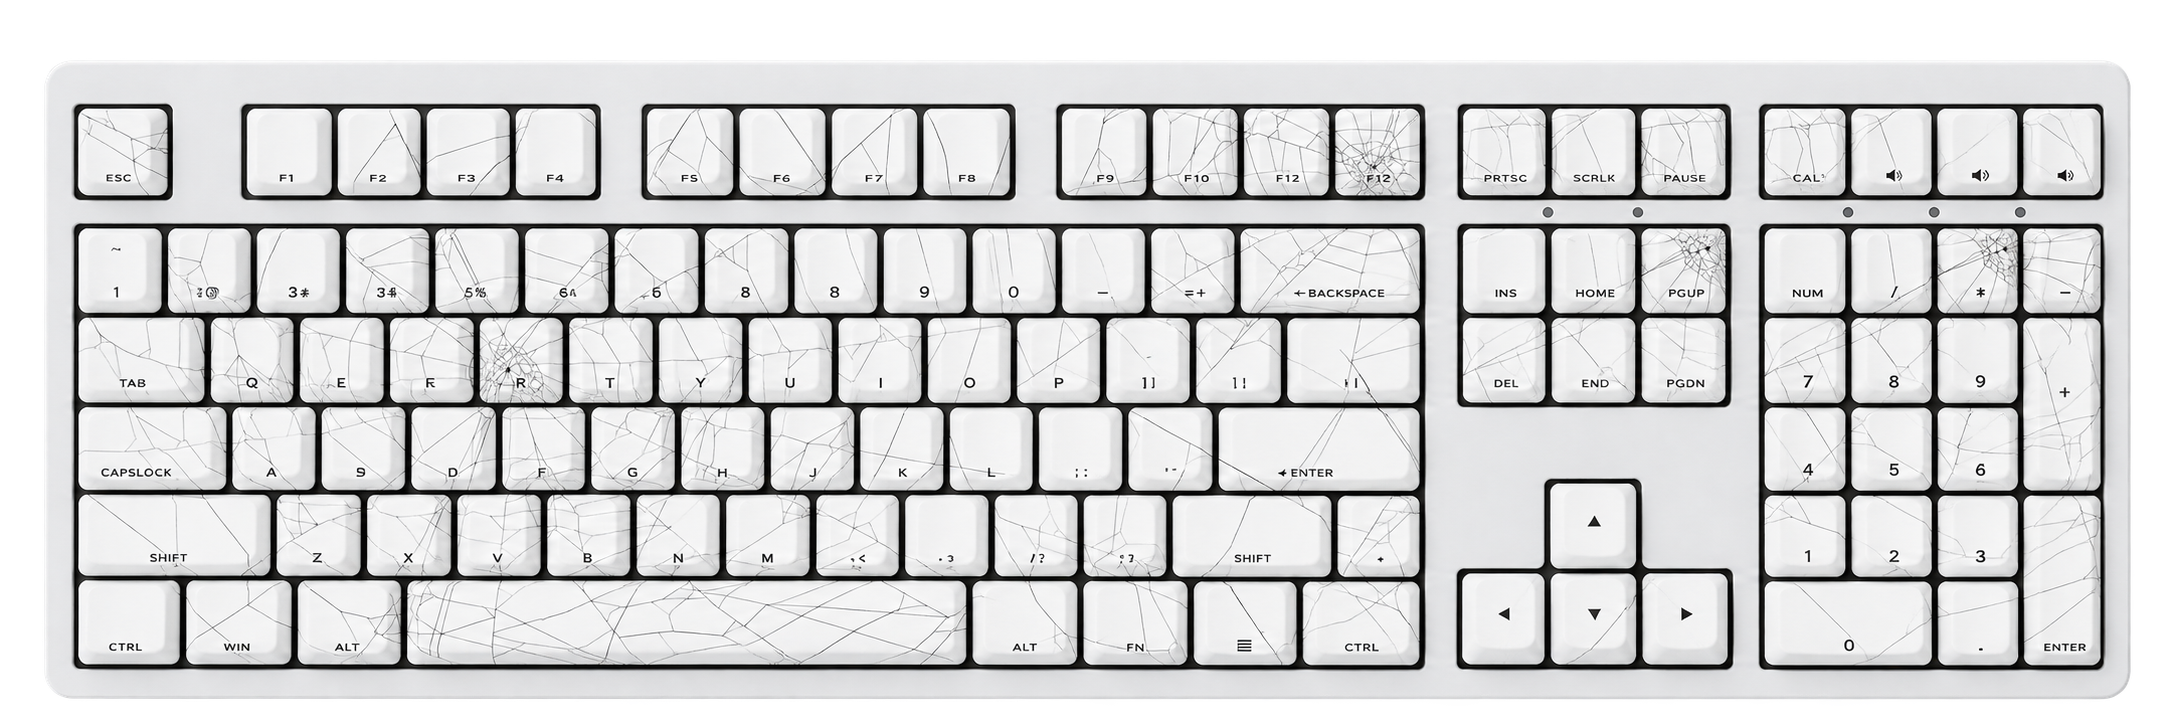
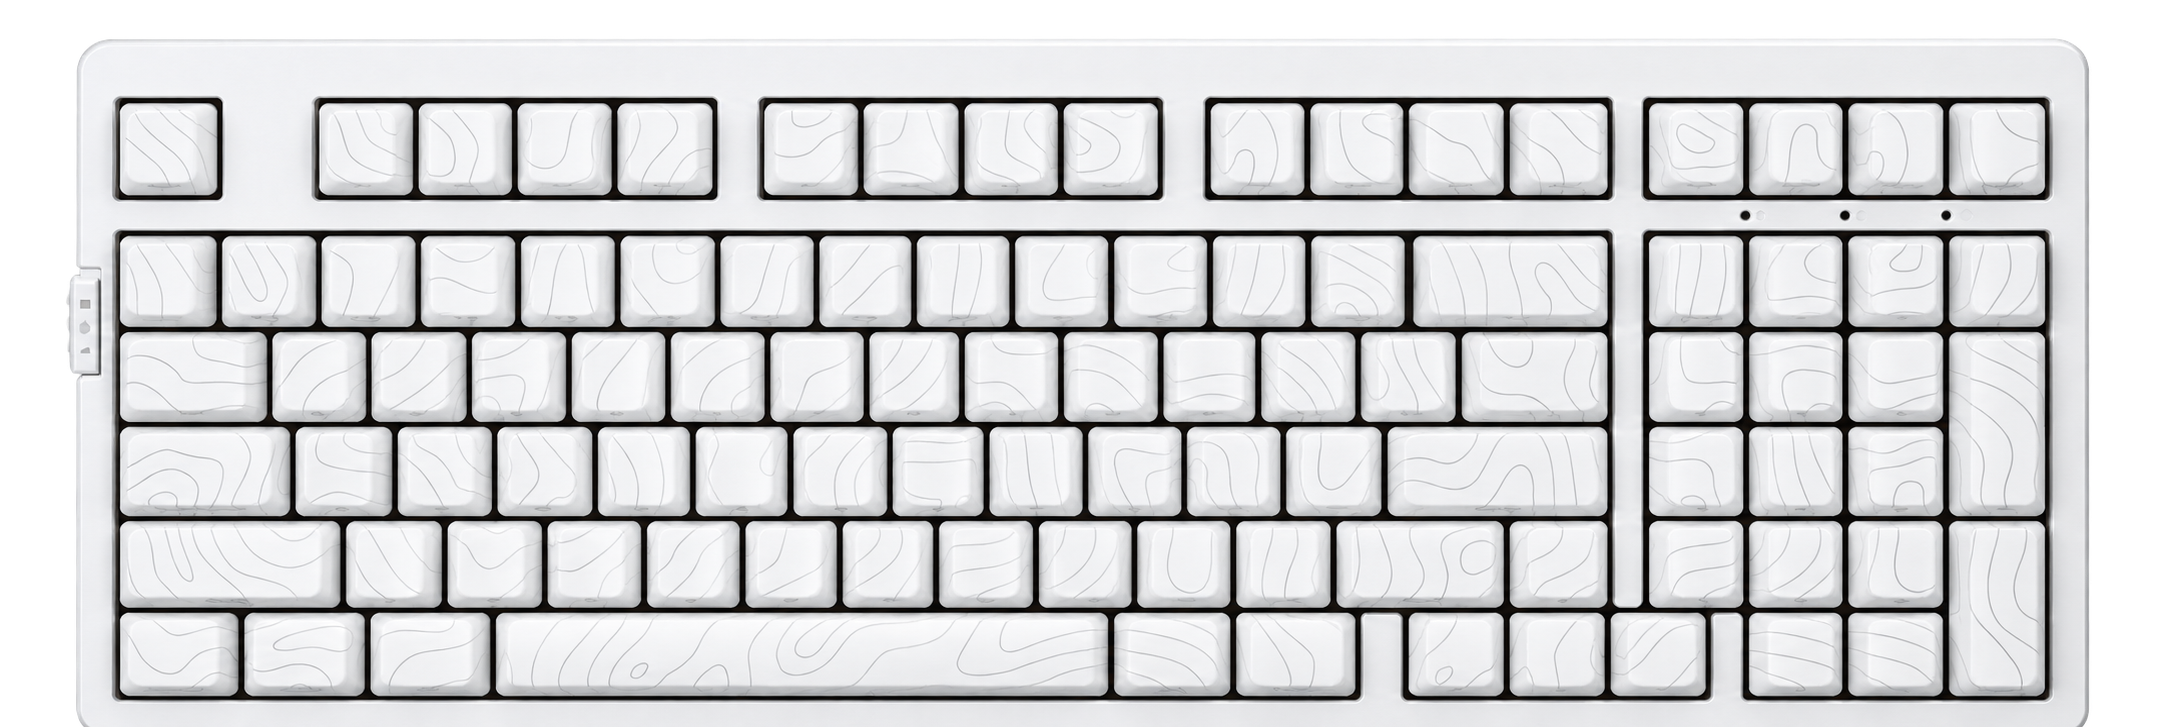
fix: align ZH980 image and expose mouse layout regions

diff --git a/DeviceCatalog.cs b/DeviceCatalog.cs
@@ -116,6 +116,12 @@ internal static class DeviceCatalog
         return led.Name switch
         {
             "Mouse_ScrollWheel" => "LED: Scroll Wheel",
+            "Mouse_LeftButton" => "Button: Left",
+            "Mouse_RightButton" => "Button: Right",
+            "Mouse_DpiButton" => "Button: DPI",
+            "Mouse_SideBack" => "Button: Side Back",
+            "Mouse_SideForward" => "Button: Side Forward",
+            "Mouse_Logo" => "Area: Razer Logo",
             "Mouse_RazerLogo" => "LED: Razer Logo",
             _ => led.Name,
         };
@@ -124,13 +130,22 @@ internal static class DeviceCatalog
 
 internal static class BasiliskV3XLayout
 {
-    // OpenRGB's device definition exposes one controllable Chroma region:
-    // the scroll wheel. The V3 X HyperSpeed does not expose a separately
-    // controllable logo region through this protocol.
+    // The physical RGB transport currently exposes the scroll wheel. The
+    // remaining regions are logical layout areas so Artemis can show and
+    // target the mouse buttons without pretending they are separate RGB
+    // channels in the Razer HID protocol.
     internal static readonly IReadOnlyList<LedDefinition> Leds =
     [
-        new("Mouse_ScrollWheel", 0),
+        new("Mouse_LeftButton", 0),
+        new("Mouse_RightButton", 1),
+        new("Mouse_ScrollWheel", 2),
+        new("Mouse_DpiButton", 3),
+        new("Mouse_SideBack", 4),
+        new("Mouse_SideForward", 5),
+        new("Mouse_Logo", 6),
     ];
+
+    internal const int ScrollWheelIndex = 2;
 }
 
 internal static class Fx608LmLayout

diff --git a/Program.cs b/Program.cs
@@ -1291,8 +1291,8 @@ internal static class Program
         {
             var zhGreen = Enumerable.Repeat(new Rgb(0, 255, 0), Zh980Layout.Leds.Count).ToArray();
             var zhOff = Enumerable.Repeat(new Rgb(0, 0, 0), Zh980Layout.Leds.Count).ToArray();
-            var razerGreen = new[] { new Rgb(0, 255, 0) };
-            var razerOff = new[] { new Rgb(0, 0, 0) };
+            var razerGreen = Enumerable.Repeat(new Rgb(0, 255, 0), BasiliskV3XLayout.Leds.Count).ToArray();
+            var razerOff = Enumerable.Repeat(new Rgb(0, 0, 0), BasiliskV3XLayout.Leds.Count).ToArray();
             var asusGreen = Enumerable.Repeat(new Rgb(0, 255, 0), 105).ToArray();
             var asusOff = Enumerable.Repeat(new Rgb(0, 0, 0), 105).ToArray();
 

diff --git a/RazerBasiliskWriter.cs b/RazerBasiliskWriter.cs
@@ -97,7 +97,9 @@ internal sealed class RazerBasiliskWriter : IDisposable
             if (!IsOpen)
                 return false;
 
-            var color = colors.Count == 0 ? new Rgb(0, 0, 0) : colors[0];
+            var color = colors.Count > BasiliskV3XLayout.ScrollWheelIndex
+                ? colors[BasiliskV3XLayout.ScrollWheelIndex]
+                : colors.Count == 0 ? new Rgb(0, 0, 0) : colors[0];
 
             // Razer's extended-matrix custom frame for the one-cell mouse
             // region: row 0, columns 0..0, followed by RGB bytes.

diff --git a/README.md b/README.md
@@ -7,7 +7,8 @@ OpenRGB/Artemis compatibility layer for the user's three lighting devices.
 - ZH980 2.4G mode through the keyboard's 33-byte HID OUTPUT report (`MI_03`)
 - OpenRGB SDK server on `127.0.0.1:6742`
 - 97 physical keys, including the full numpad
-- Razer Basilisk V3 X HyperSpeed HID lighting (`MI_00`, one scroll-wheel RGB zone)
+- Razer Basilisk V3 X HyperSpeed HID lighting (`MI_00`, one physical scroll-wheel RGB zone)
+- Basilisk layout exposes logical regions for left/right buttons, DPI, side buttons, scroll wheel, and logo; only the scroll wheel is hardware-backed
 - ASUS TUF Gaming F16 / 天选 6 Pro `FX608LM` keyboard layout (105 logical keys)
 - ASUS FX608LM ITE5570 HID LampArray output (single physical zone)
 - One SDK controller for each of the three devices, so Artemis can keep them separate
